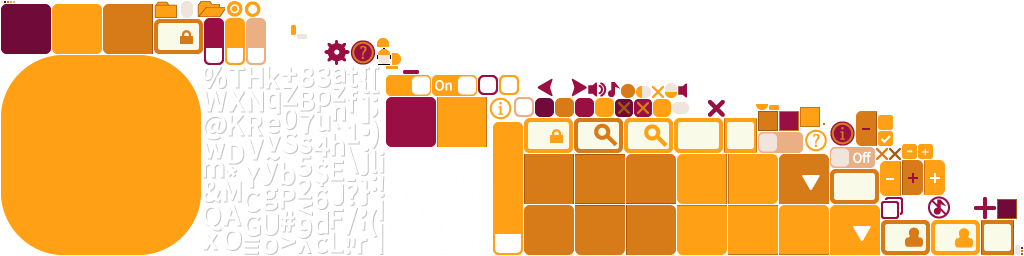
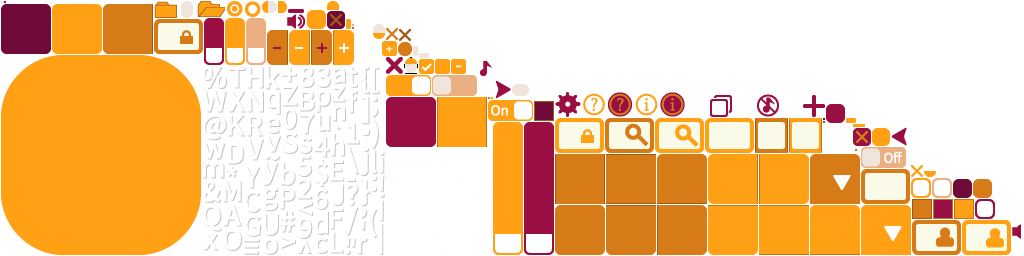
add daily challenge panel with placeholder implementation

Changed region(s): [[0.25, 0.0, 1.0, 1.0]]

diff --git a/core/src/main/java/fi/tamk/yourtrueself/ui/ChallengePanel.java b/core/src/main/java/fi/tamk/yourtrueself/ui/ChallengePanel.java
@@ -9,6 +9,7 @@ import com.badlogic.gdx.scenes.scene2d.ui.Window;
 import com.badlogic.gdx.scenes.scene2d.utils.ChangeListener;
 
 import fi.tamk.yourtrueself.Challenge;
+import fi.tamk.yourtrueself.DailyChallenge;
 import fi.tamk.yourtrueself.YTSGame;
 
 /**
@@ -27,6 +28,41 @@ public final class ChallengePanel extends Window {
     public ChallengePanel(Challenge chl, YTSGame ytsGame, Skin skin) {
         // Show thinner title on less dense displays (e.g. desktop)
         super(ytsGame.getBundle().get("challengeTitle"), skin, Gdx.graphics.getPpiY() > 200 ? "large" : "default");
+
+        this.game = ytsGame;
+        final Challenge challenge = chl;
+
+        this.setMovable(false);
+        this.padLeft(20).padRight(20);
+
+        // Challenge text
+        Label chlText = new Label(game.getBundle().format(chl.getId(), chl.getModifier()), skin);
+        chlText.setWrap(true);
+        this.add(chlText).padBottom(5).grow().row();
+
+        // Button to complete challenge
+        TextButton doneButton = new TextButton(game.getBundle().get("done"), skin, "orange-small");
+        doneButton.pad(15);
+        this.add(doneButton).growY();
+
+        doneButton.addListener(new ChangeListener() {
+            @Override
+            public void changed(ChangeEvent event, Actor actor) {
+                game.completeChallenge(challenge);
+            }
+        });
+    }
+
+    /**
+     * Create new challenge panel with given challenge.
+     *
+     * @param chl     challenge to show
+     * @param ytsGame game instance
+     * @param skin    skin to use
+     */
+    public ChallengePanel(DailyChallenge chl, YTSGame ytsGame, Skin skin) {
+        // Show thinner title on less dense displays (e.g. desktop)
+        super(ytsGame.getBundle().get("challengeTitle"), skin, Gdx.graphics.getPpiY() > 200 ? "maroon-large" : "maroon");
 
         this.game = ytsGame;
         final Challenge challenge = chl;

diff --git a/core/src/main/java/fi/tamk/yourtrueself/screens/MainScreen.java b/core/src/main/java/fi/tamk/yourtrueself/screens/MainScreen.java
@@ -16,6 +16,7 @@ import com.badlogic.gdx.utils.Array;
 import fi.tamk.yourtrueself.Challenge;
 import fi.tamk.yourtrueself.ChallengeCompletedListener;
 import fi.tamk.yourtrueself.Character;
+import fi.tamk.yourtrueself.DailyChallenge;
 import fi.tamk.yourtrueself.YTSGame;
 import fi.tamk.yourtrueself.ui.ChallengePanel;
 import fi.tamk.yourtrueself.ui.CharacterMainPanel;
@@ -104,11 +105,8 @@ public class MainScreen implements Screen {
         challengeTable = new Table();
         challengeTable.defaults().padBottom(5).top().growX();
 
-        // Add the current challenge
-        Challenge chl = game.getCurrentChallenge();
-        if (chl != null) {
-            challengeTable.add(new ChallengePanel(chl, game, uiSkin));
-        }
+        // Add the current challenges
+        refreshChallenges();
 
         // Add a callback to update the UI after a challenge is completed
         game.setChallengeCompletedListener(new ChallengeCompletedListener() {
@@ -152,7 +150,11 @@ public class MainScreen implements Screen {
 
         Challenge chl = game.getCurrentChallenge();
         if (chl != null) {
-            challengeTable.add(new ChallengePanel(game.getCurrentChallenge(), game, uiSkin));
+            challengeTable.add(new ChallengePanel(chl, game, uiSkin)).row();
+        }
+        DailyChallenge dchl = game.getCurrentDaily();
+        if (dchl != null) {
+            challengeTable.add(new ChallengePanel(dchl, game, uiSkin));
         }
     }
 

diff --git a/core/src/main/java/fi/tamk/yourtrueself/YTSGame.java b/core/src/main/java/fi/tamk/yourtrueself/YTSGame.java
@@ -56,6 +56,10 @@ public class YTSGame extends Game {
             new Challenge("chlBalHeelToe", Player.Stat.BALANCE, 15)
     };
 
+    public static final DailyChallenge[] DAILY_CHALLENGES = {
+            new DailyChallenge("dchlStairs", Player.Stat.STAMINA)
+    };
+
     /**
      * Path to the Scene2D skin to use.
      */
@@ -90,6 +94,11 @@ public class YTSGame extends Game {
      * Time in milliseconds (System.currentTimeMillis()) when the next challenge appears.
      */
     private long nextChallengeTime;
+
+    /**
+     * Current daily challenge.
+     */
+    private DailyChallenge currentDaily;
 
     /**
      * Callback used after a challenge is completed.
@@ -393,6 +402,10 @@ public class YTSGame extends Game {
         }
     }
 
+    public DailyChallenge getCurrentDaily() {
+        return currentDaily;
+    }
+
     /**
      * Re-read preferences for current challenge, check if next challenge needs to be given
      * and make sure that the player has a challenge if there's no active timer.
@@ -534,6 +547,7 @@ public class YTSGame extends Game {
 
         loadStats();
         refreshChallenges();
+        currentDaily = DAILY_CHALLENGES[0];
 
         uiViewport = new ScreenViewport();
 

diff --git a/core/src/main/java/fi/tamk/yourtrueself/DailyChallenge.java b/core/src/main/java/fi/tamk/yourtrueself/DailyChallenge.java
@@ -1,0 +1,16 @@
+package fi.tamk.yourtrueself;
+
+public class DailyChallenge extends Challenge {
+    public DailyChallenge(String id, Player.Stat mainStat) {
+        super(id, mainStat);
+    }
+
+    public DailyChallenge(String id, Player.Stat mainStat, int modifier) {
+        super(id, mainStat, modifier);
+    }
+
+    @Override
+    public void complete(Player player) {
+        player.train(mainStat, 4f);
+    }
+}

diff --git a/core/src/main/java/fi/tamk/yourtrueself/Challenge.java b/core/src/main/java/fi/tamk/yourtrueself/Challenge.java
@@ -13,7 +13,7 @@ public class Challenge {
     /**
      * Challenge's main stat. Completing the challenge raises this stat.
      */
-    private final Player.Stat mainStat;
+    protected final Player.Stat mainStat;
 
     /**
      * Challenge's modifier, for example "walk (x) steps" or "do (x) squats". Gets passed
